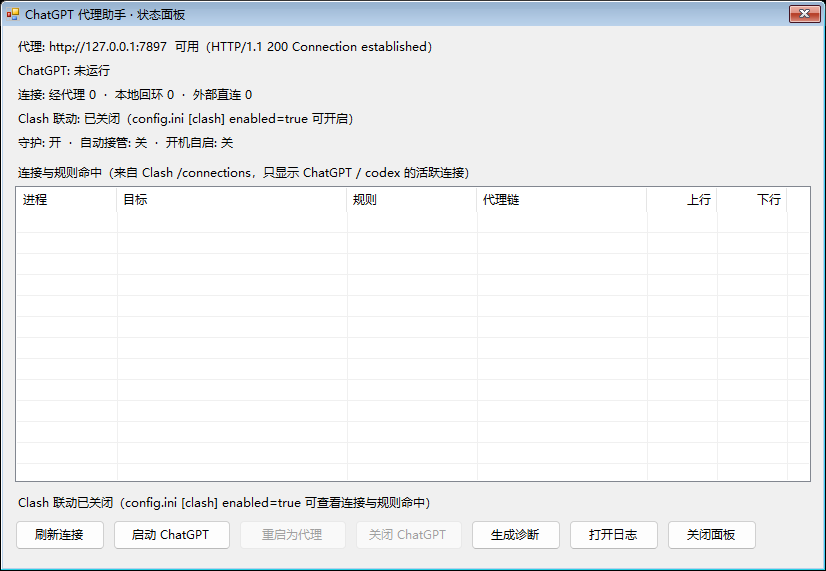
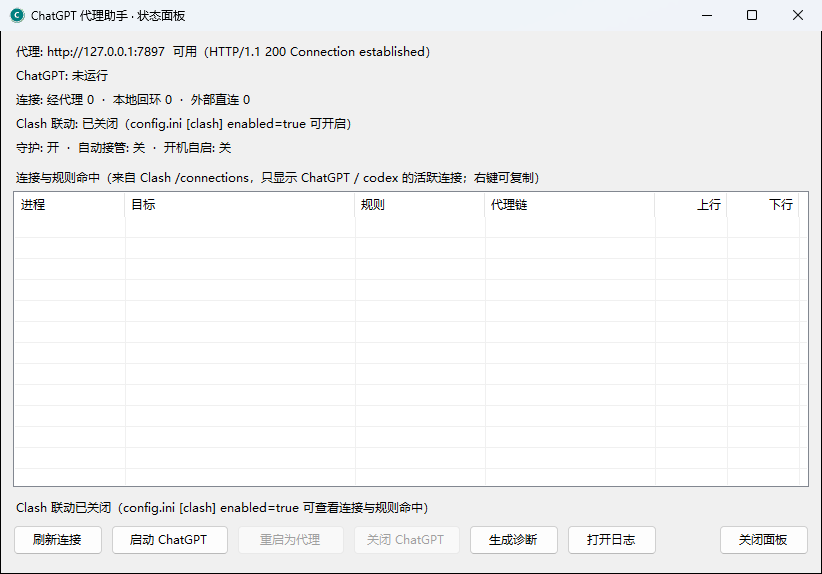
更新 README 截图与 v1.2.0 文档说明，优化截图工具高 DPI 与 DWM 裁剪

diff --git a/tools/CaptureMain.cs b/tools/CaptureMain.cs
@@ -11,7 +11,7 @@ namespace ChatGptProxyTray
 {
     // 开发用截图工具：把托盘菜单和状态面板渲染成 PNG，供 README 使用。
     // 编译（不要带 src\Program.cs，否则有两个 Main）：
-    //   csc /nologo /target:winexe /platform:x64 /utf8output /out:tools\capture.exe tools\CaptureMain.cs src\*.cs (除 Program.cs)
+    //   csc /nologo /target:winexe /platform:x64 /utf8output /win32icon:app.ico /win32manifest:src\app.manifest /out:tools\capture.exe tools\CaptureMain.cs src\*.cs (除 Program.cs)
     // 运行：
     //   tools\capture.exe docs\screenshots
     internal static class CaptureMain
@@ -21,6 +21,9 @@ namespace ChatGptProxyTray
 
         [DllImport("user32.dll")]
         private static extern bool GetWindowRect(IntPtr hwnd, out RECT rect);
+
+        [DllImport("dwmapi.dll")]
+        private static extern int DwmGetWindowAttribute(IntPtr hwnd, int dwAttribute, out RECT pvAttribute, int cbAttribute);
 
         [DllImport("user32.dll")]
         private static extern bool SetWindowPos(IntPtr hwnd, IntPtr insertAfter, int x, int y, int cx, int cy, uint flags);
@@ -53,39 +56,19 @@ namespace ChatGptProxyTray
             Pump(300);
             context.OpenPanel();
             Pump(2500);
-            CaptureWindow(panel.Handle, Path.Combine(outDir, "panel.png"));
+            CaptureWindow(panel.Handle, Path.Combine(outDir, "panel.png"), true);
             Log("panel.png " + panel.Width + "x" + panel.Height);
 
             panel.Hide();
-            Pump(500);
-
-            Form backdrop = new Form();
-            backdrop.FormBorderStyle = FormBorderStyle.None;
-            backdrop.StartPosition = FormStartPosition.Manual;
-            backdrop.Bounds = Screen.PrimaryScreen.WorkingArea;
-            backdrop.BackColor = Color.FromArgb(248, 248, 248);
-            backdrop.ShowInTaskbar = false;
-            backdrop.TopMost = true;
-            backdrop.Show();
-            Pump(500);
+            Pump(300);
 
             ContextMenuStrip menu = (ContextMenuStrip)GetField(context, "_menu");
-            menu.Show(new Point(backdrop.Bounds.Left + 260, backdrop.Bounds.Top + 90));
+            menu.AutoClose = false;
+            menu.Show(new Point(260, 90));
             Pump(400);
-            SetWindowPos(menu.Handle, new IntPtr(-1), 0, 0, 0, 0, 0x0001 | 0x0002 | 0x0010);
-            Pump(600);
-            Rectangle screenBounds = backdrop.Bounds;
-            using (Bitmap screen = new Bitmap(screenBounds.Width, screenBounds.Height))
-            {
-                using (Graphics graphics = Graphics.FromImage(screen))
-                {
-                    graphics.CopyFromScreen(screenBounds.Left, screenBounds.Top, 0, 0, screenBounds.Size);
-                }
-                SaveCropped(screen, backdrop.BackColor, Path.Combine(outDir, "menu.png"), 8);
-            }
-            Log("menu.png saved");
+            CaptureWindow(menu.Handle, Path.Combine(outDir, "menu.png"), false);
+            Log("menu.png " + menu.Width + "x" + menu.Height);
             menu.Close();
-            backdrop.Close();
             Pump(300);
 
             context.ExitThread();
@@ -109,7 +92,7 @@ namespace ChatGptProxyTray
             }
         }
 
-        private static void CaptureWindow(IntPtr handle, string path)
+        private static void CaptureWindow(IntPtr handle, string path, bool trimDwmFrame)
         {
             RECT rect;
             GetWindowRect(handle, out rect);
@@ -122,13 +105,37 @@ namespace ChatGptProxyTray
                     IntPtr hdc = graphics.GetHdc();
                     try
                     {
-                        PrintWindow(handle, hdc, 0);
+                        // PW_RENDERFULLCONTENT (2) 可在 Windows 10/11 下正确渲染现代窗口标题栏与内容
+                        PrintWindow(handle, hdc, 2);
                     }
                     finally
                     {
                         graphics.ReleaseHdc(hdc);
                     }
                 }
+
+                if (trimDwmFrame)
+                {
+                    RECT frame;
+                    const int DwmwaExtendedFrameBounds = 9;
+                    if (DwmGetWindowAttribute(handle, DwmwaExtendedFrameBounds, out frame, Marshal.SizeOf(typeof(RECT))) == 0)
+                    {
+                        int cropX = Math.Max(0, frame.Left - rect.Left);
+                        int cropY = Math.Max(0, frame.Top - rect.Top);
+                        int cropW = Math.Min(width - cropX, Math.Max(1, frame.Right - frame.Left));
+                        int cropH = Math.Min(height - cropY, Math.Max(1, frame.Bottom - frame.Top));
+                        if (cropX > 0 || cropY > 0 || cropW < width || cropH < height)
+                        {
+                            Rectangle crop = new Rectangle(cropX, cropY, cropW, cropH);
+                            using (Bitmap trimmed = bitmap.Clone(crop, bitmap.PixelFormat))
+                            {
+                                trimmed.Save(path, ImageFormat.Png);
+                                return;
+                            }
+                        }
+                    }
+                }
+
                 bitmap.Save(path, ImageFormat.Png);
             }
         }
